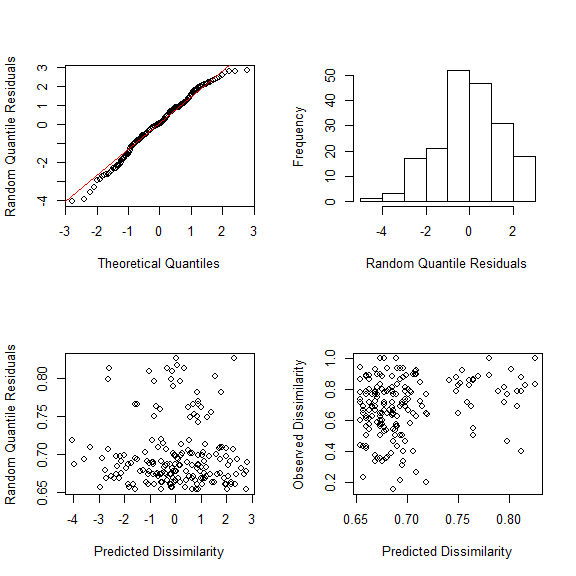
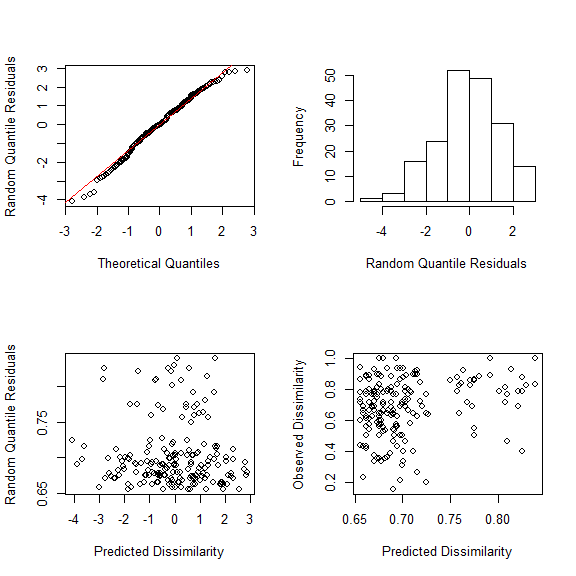
remove cran badge - for now.

diff --git a/README.md b/README.md
@@ -1,6 +1,6 @@
 ### BBGDM
 
-[![Travis-CI Build Status](https://travis-ci.org/skiptoniam/bbgdm.svg?branch=master)](https://travis-ci.org/skiptoniam/bbgdm) [![codecov.io](https://codecov.io/github/skiptoniam/bbgdm/coverage.svg?branch=master)](https://codecov.io/github/skiptoniam/bbgdm?branch=master) [![CRAN\_Status\_Badge](http://www.r-pkg.org/badges/version/bbgdm)](https://cran.r-project.org/package=bbgdm)
+[![Travis-CI Build Status](https://travis-ci.org/skiptoniam/bbgdm.svg?branch=master)](https://travis-ci.org/skiptoniam/bbgdm) [![codecov.io](https://codecov.io/github/skiptoniam/bbgdm/coverage.svg?branch=master)](https://codecov.io/github/skiptoniam/bbgdm?branch=master)
 
 BBGDM is a R package for running Generalized Dissimilarity Models with Bayesian Bootstrap for parameter estimation. To install package run the following command in your R terminal
 
@@ -51,10 +51,10 @@ print(fm1)
     ##  A total of 100 Bayesian Bootstraps were run.
     ## 
     ##  Spline base parameter estimates are: 
-    ##  (Intercept) 0.6528
+    ##  (Intercept) 0.6663
     ##  x_1 0
-    ##  x_2 0
-    ##  x_3 0.5554
+    ##  x_2 0.0715
+    ##  x_3 0.6064
 
 ##### Plot diagnostics
 
@@ -86,7 +86,7 @@ print(tab, type = "html")
 ```
 
 <!-- html table generated in R 3.2.2 by xtable 1.8-0 package -->
-<!-- Thu Jul 07 20:29:07 2016 -->
+<!-- Thu Jul 07 20:49:08 2016 -->
 <table border="1">
 <tr>
 <th>
@@ -106,7 +106,7 @@ bbgdm\_p-value
 intercept
 </td>
 <td align="right">
-9.94
+10.82
 </td>
 <td align="right">
 1.00
@@ -120,13 +120,13 @@ intercept
 A1
 </td>
 <td align="right">
-1.15
+1.76
 </td>
 <td align="right">
 3.00
 </td>
 <td align="right">
-0.77
+0.62
 </td>
 </tr>
 </table>
